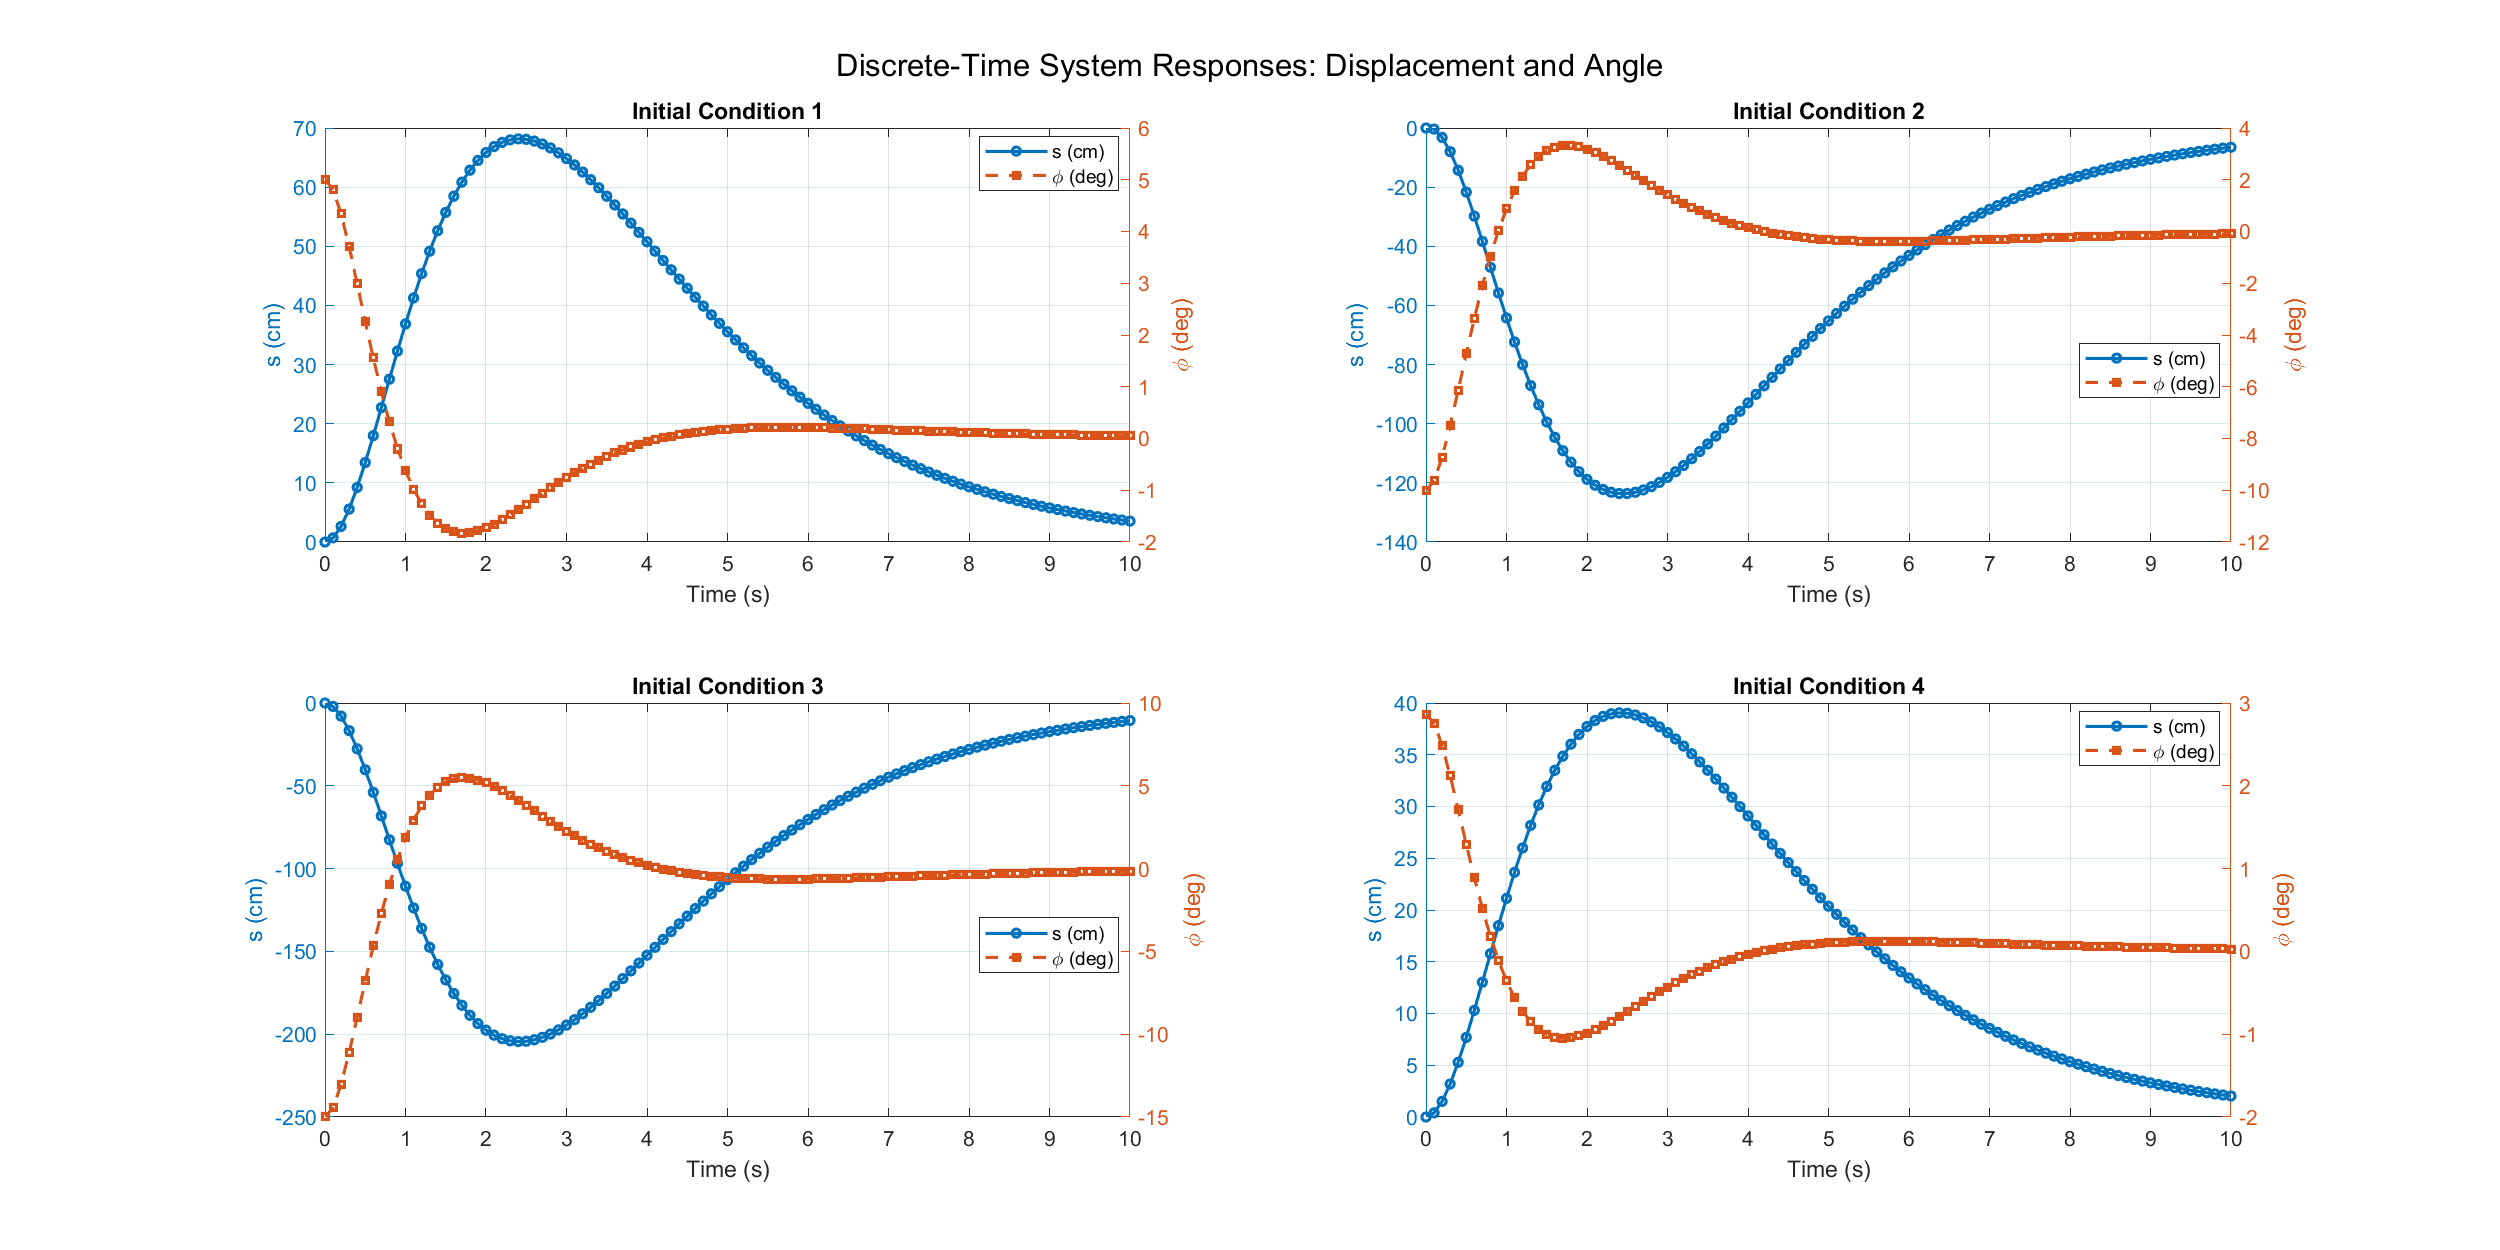
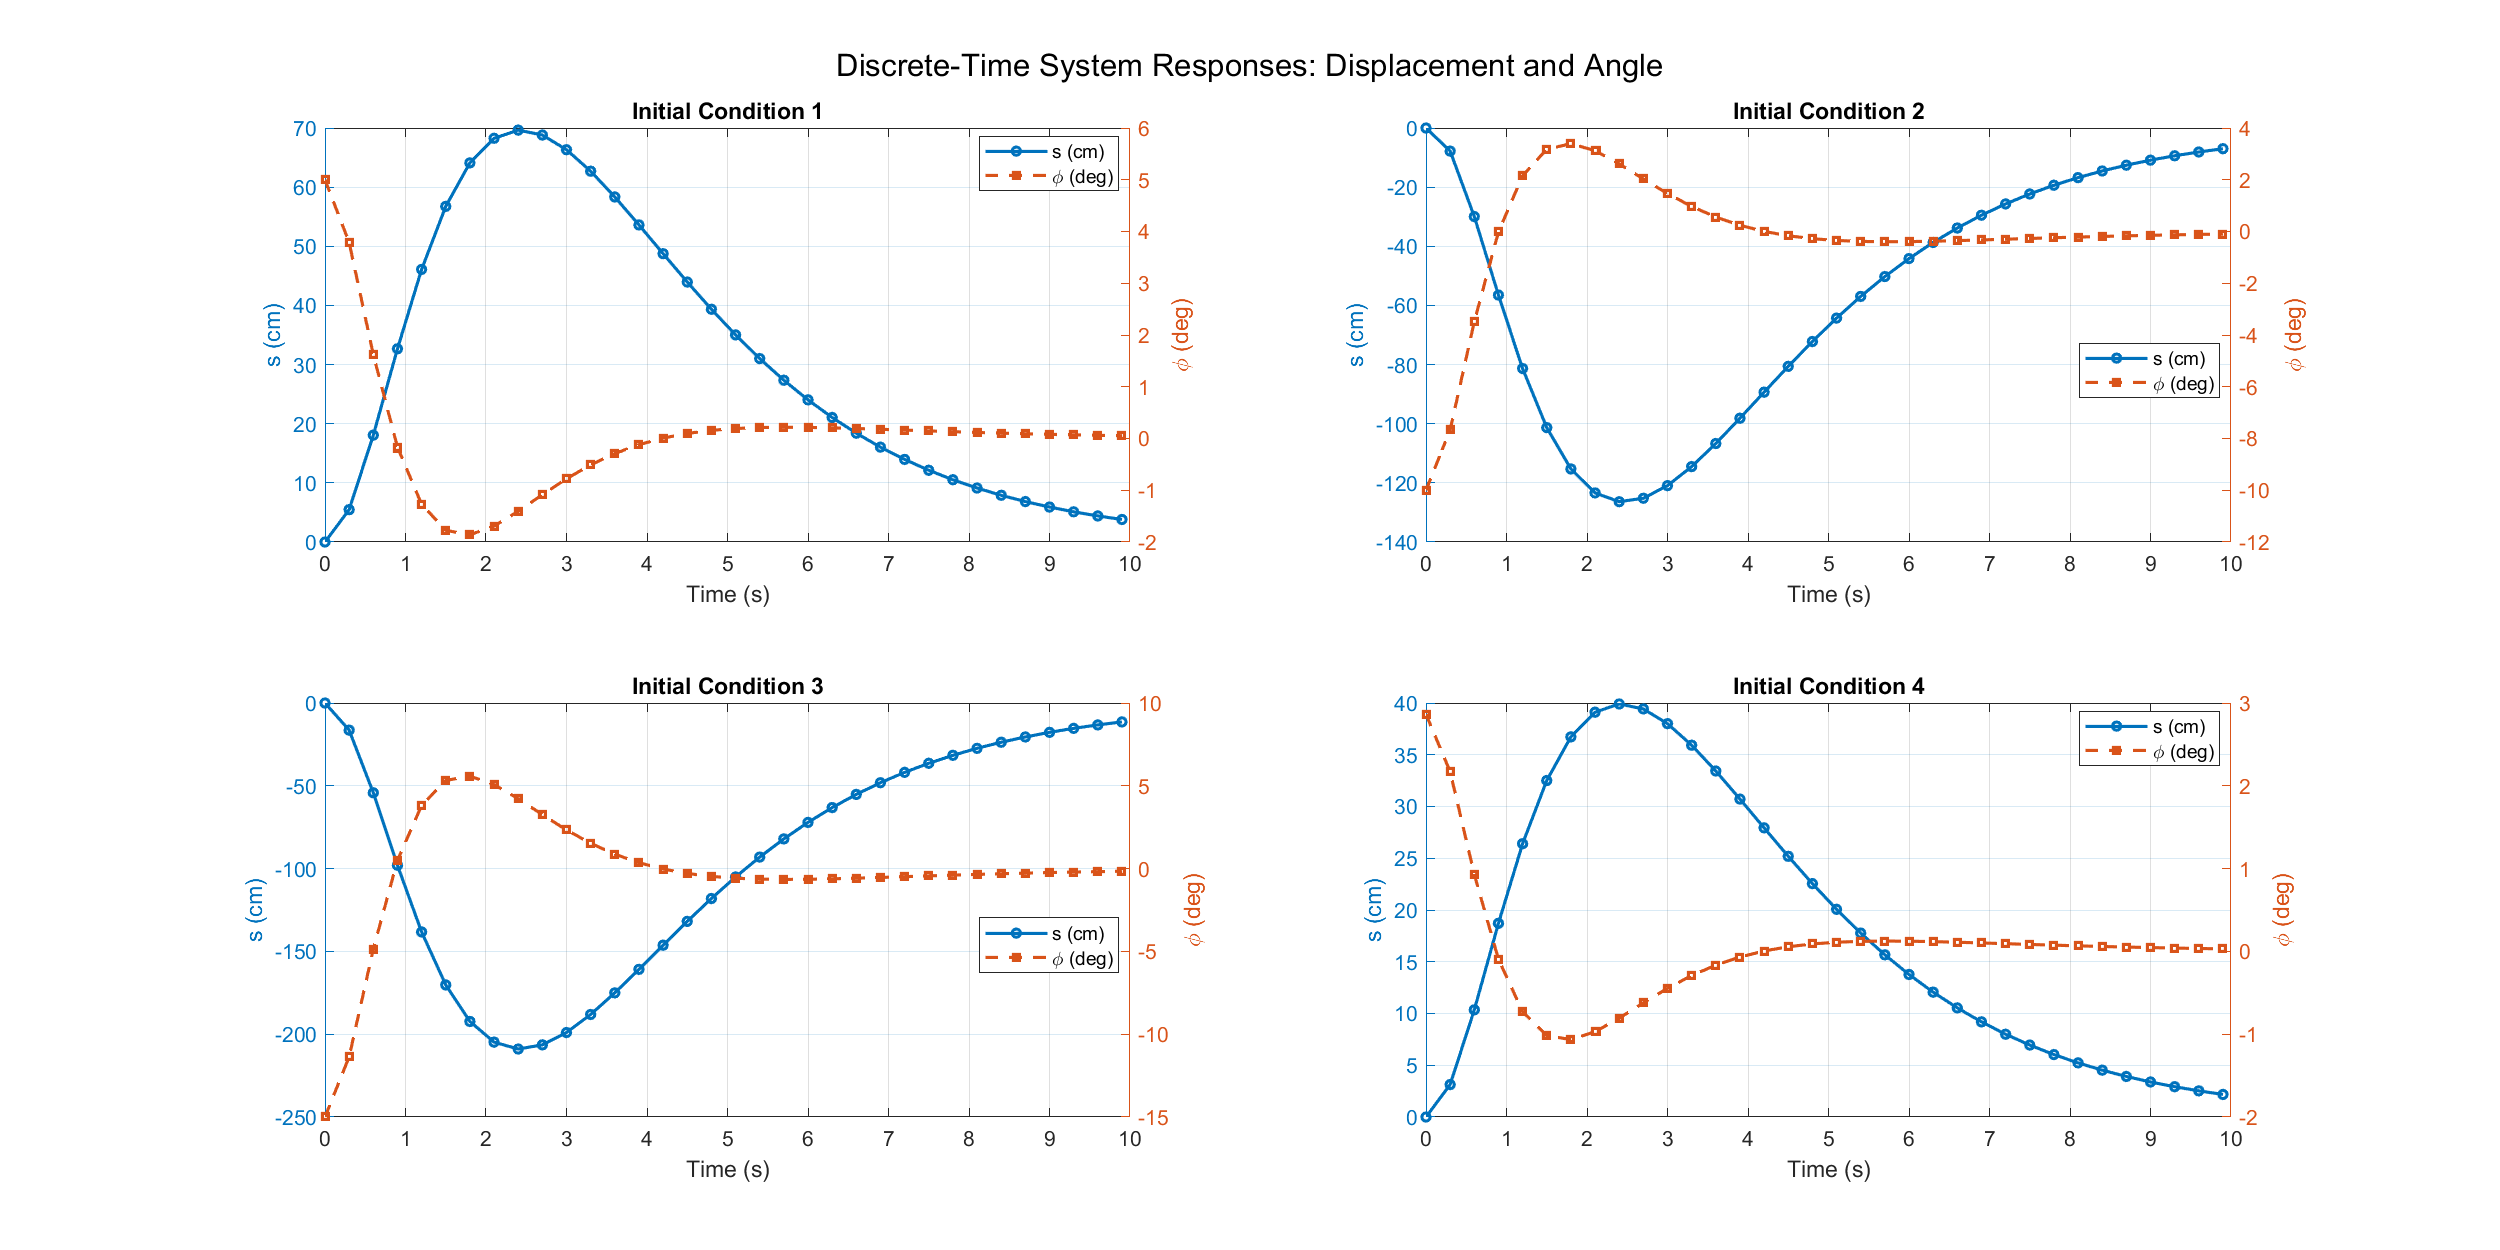
plots again

diff --git a/equations/linear_dynamics.tex b/equations/linear_dynamics.tex
@@ -1,1 +1,2 @@
-\left(\begin{array}{ccccc} 0 & 1 & 0 & 0 & 0\\ 0 & -\frac{F}{M} & 0 & 0 & \frac{1}{M}\\ 0 & 0 & 0 & 1 & 0\\ 0 & \frac{F}{LM} & \frac{g}{L} & 0 & -\frac{1}{LM}\\ 1 & 0 & 0 & 0 & 0\\ 0 & 0 & 1 & 0 & 0 \end{array}\right)
+\n\left(\begin{array}{ccccc} 0 & 1 & 0 & 0 & 0\\ 0 & -\frac{F}{M} & 0 & 0 & \frac{1}{M}\\ 0 & 0 & 0 & 1 & 0\\ 0 & \frac{F}{LM} & \frac{g}{L} & 0 & -\frac{1}{LM}\\ 1 & 0 & 0 & 0 & 0\\ 0 & 0 & 1 & 0 & 0 \end{array}\right)
+\n

diff --git a/model/main.m b/model/main.m
@@ -264,7 +264,7 @@ end
 % LECTURE 7 SLIDE 17/19
 
 part_b_4;
-Ts = 0.1;
+Ts = 0.3;
 
 
 
